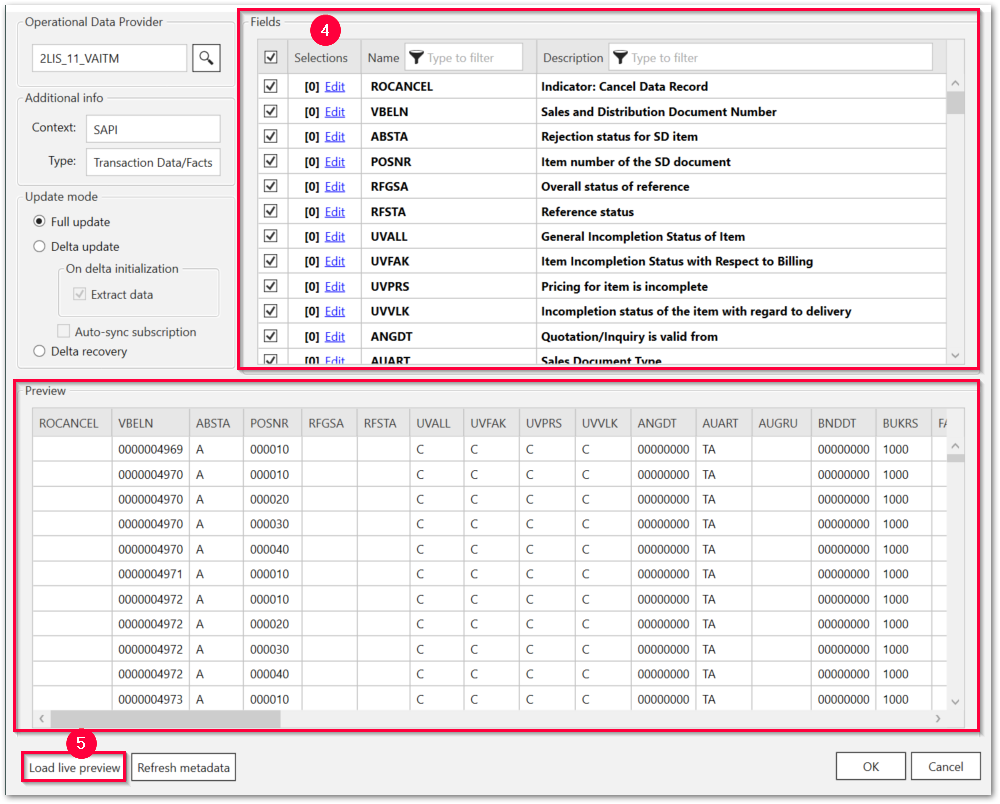
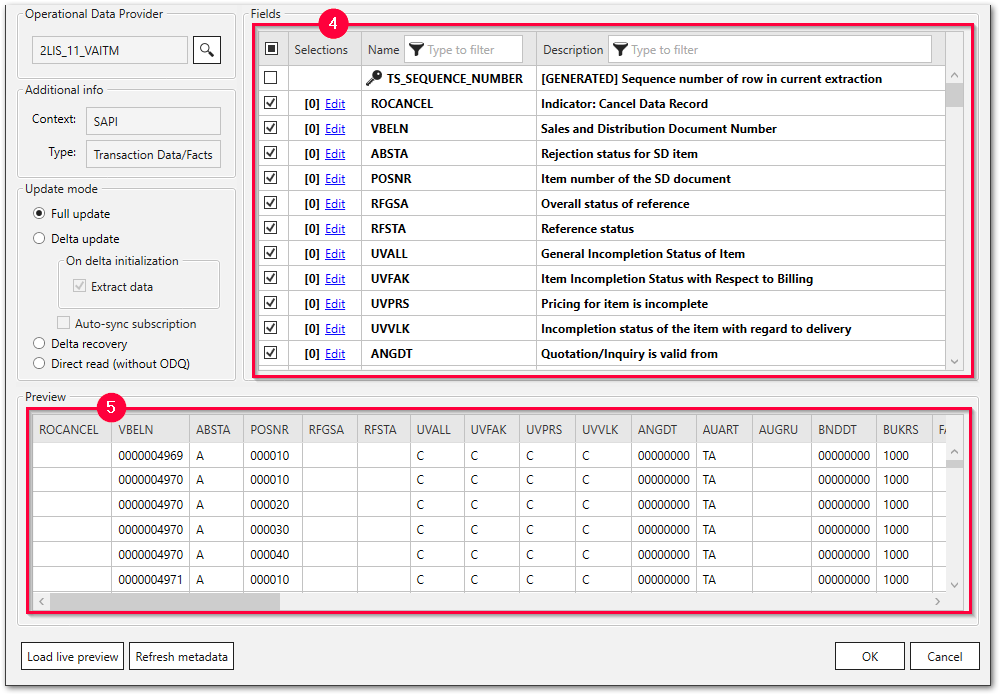
screenshot from dev version

Changed region(s): [[0.0, 0.0, 0.992, 0.9971]]

diff --git a/_includes/_content/en/odp/odp-settings-update_mode.md b/_includes/_content/en/odp/odp-settings-update_mode.md
@@ -21,4 +21,6 @@ A subscription is deleted, if the error message "Illegal change in selection par
 **Delta recovery:**<br/>
 Re-runs the last delta update 
 
-
+**Direct read (without ODQ):**<br/>
+Directly reads all available data, bypassing the ODQ (Operational Delta Queue). 
+This is not suited for extracting large amounts of data, because there is no packaging available. It is also the only update mode that supports data aggregation.
